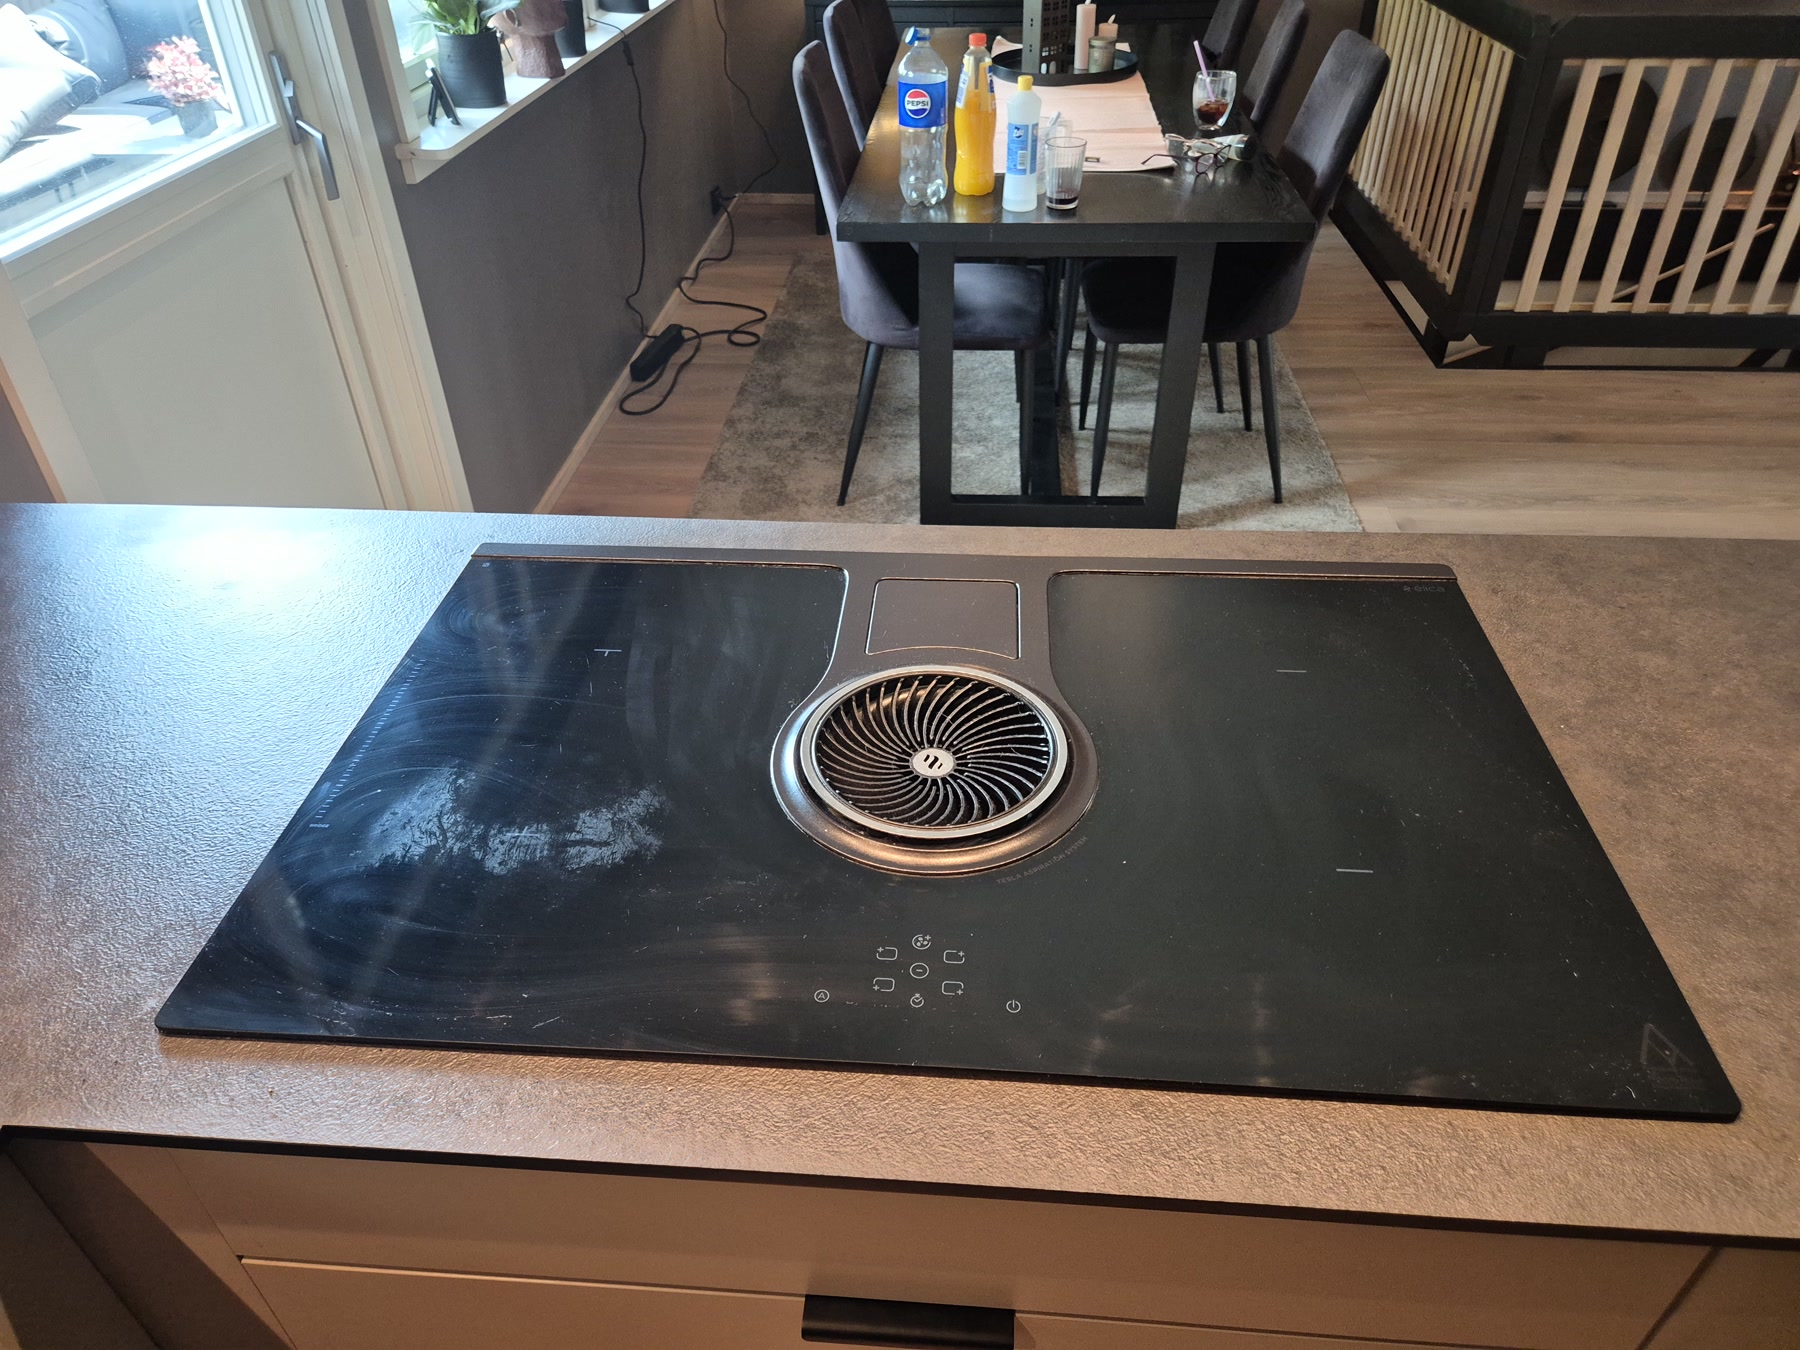
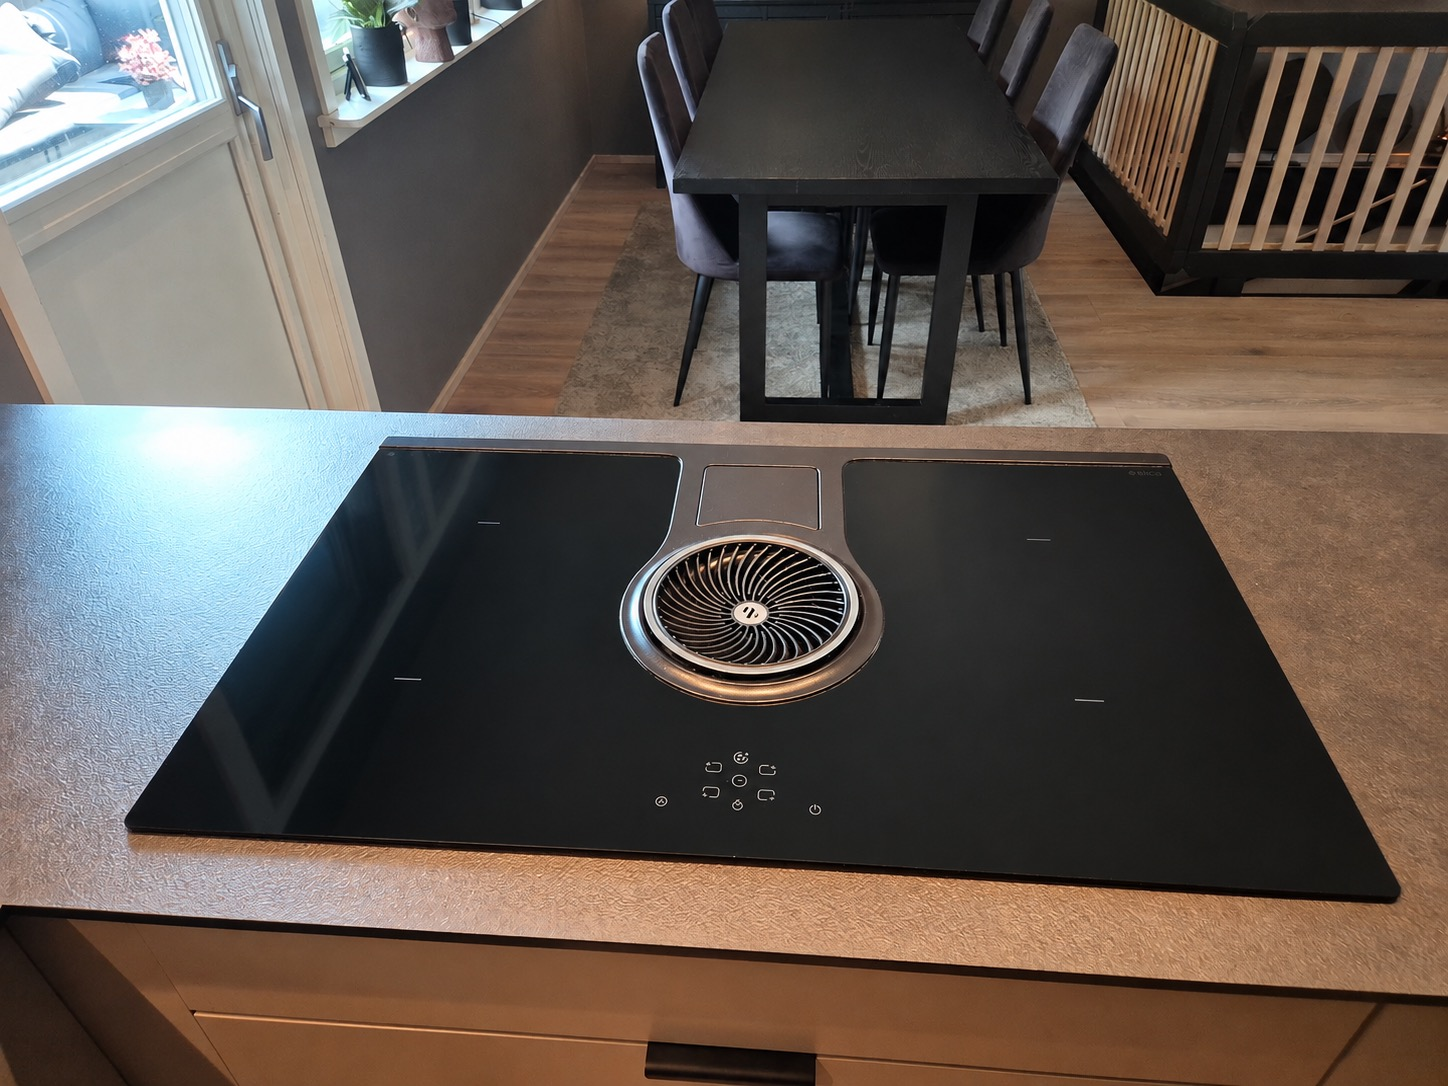
Add files via upload

diff --git a/js/script.js b/js/script.js
@@ -34,11 +34,11 @@ const groups = {
   stue: {
     title: 'Stue og spisestue',
     images: [
-      ['stue-01.jpg', 'Stue og trappeløp i åpen løsning'],
-      ['stue-02.jpg', 'Stuen og trappeløp'],
+      ['stue-01.jpg', 'Spisestue og trappeløp i åpen løsning'],
+      ['stue-02.jpg', 'Romslig spiseplass med utgang til uteområdet'],
       ['stue-03.jpg', 'Stue med stor sofagruppe og utgang til balkong'],
       ['stue-04.jpg', 'Spisestue med god plass til mange'],
-      ['stue-05.jpg', 'Spisstuen og trappen ned'],
+      ['stue-05.jpg', 'Stuen og trappen sett fra spiseplassen'],
       ['stue-06.jpg', 'Lun stue med store vindusflater'],
     ],
   },
@@ -50,7 +50,7 @@ const groups = {
       ['kjokken-02.jpg', 'Underlimt komposittvask ved vinduet'],
       ['kjokken-03.jpg', 'Elica platetopp med integrert ventilator'],
       ['kjokken-04.jpg', 'Spilevegg med Philips Hue-belysning'],
-      ['kjokken-05.jpg', 'Kjøkkenet mot spisestuen'],
+      ['kjokken-05.jpg', 'Elica platetopp med integrert ventilator'],
       ['kjokken-06.jpg', 'Komplett kjøkken med integrerte hvitevarer'],
     ],
   },
